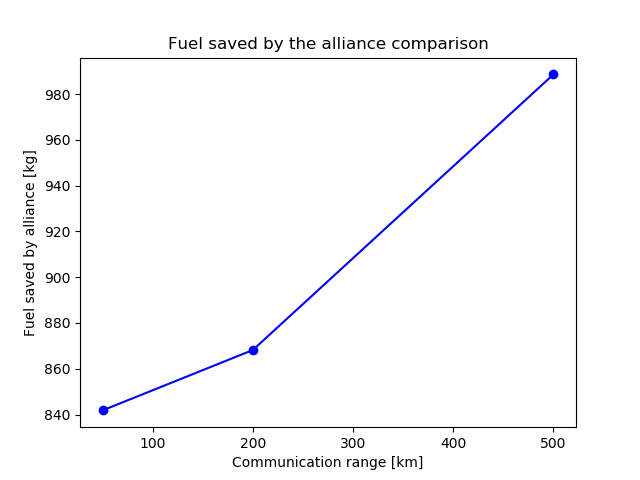
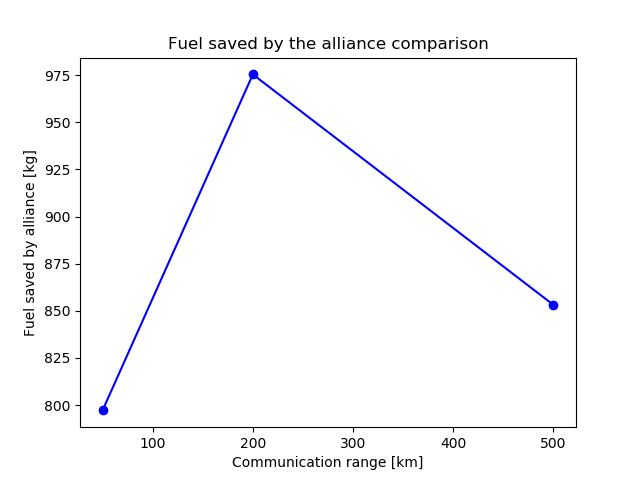
Final version

diff --git a/formation_update/formation_flying/agents/flight.py b/formation_update/formation_flying/agents/flight.py
@@ -53,7 +53,7 @@ def define_circle(p1, p2, p3):
     radius = np.sqrt((cx - p1[0])**2 + (cy - p1[1])**2)
     return ([cx, cy], radius)
 
-#formula circle (x-center[0])**2 + (y-center[1])**2 = r**2
+# Formula circle (x-center[0])**2 + (y-center[1])**2 = r**2
 def intersection(dydx,x1,x2,p3,center,radius,n): #j = -1 for jp and j=1 for lp
     for x in np.arange(x1,x2+n,n):
         y_line = dydx*(x-p3[0])+p3[1]
@@ -478,7 +478,8 @@ class Flight(Agent):
         w_c = min((w_b + w_a - 0.01), (0.87 * (w_a + w_b - 1) * (1 + 0.035 * (w_a + w_b - 2)) + 1))
         AX1 = dist * w_b / w_c
         BX1 = dist * w_a / w_c
-        ##Determine X1andX2 coordinates to determine circle and joining point##
+       
+        # Determine X1 and X2 coordinates to determine circle and joining point##
         if a.pos[0] < b.pos[0]:  # a is left and b is right of map
             angle_cs = atan(abs(b.pos[1] - a.pos[1]) / abs(b.pos[0] - a.pos[0]))
             angle_A = acos((BX1 ** 2 + dist ** 2 - AX1 ** 2) / (2 * BX1 * dist))
@@ -497,41 +498,37 @@ class Flight(Agent):
             else:
                 X1 = [b.pos[0] + cos(angle_B - angle_cs) * BX1, b.pos[1] - sin(angle_B - angle_cs) * BX1]
                 X2 = [b.pos[0] + cos(angle_B + angle_cs) * BX1, b.pos[1] + sin(angle_B + angle_cs) * BX1]
-        # if X1[1] < X2[1]:
-        #     # center_X, radius_X = define_circle(a.pos, b.pos, X1)
-        #     X = X1
-        # else:
-        #     center_X, radius_X = define_circle(a.pos, b.pos, X2)
-        #     X = X2
+      
+        
         ##Determine Y1andY2 coordinates to determine circle and leaving point##
         dist_des = calc_distance(a.destination, b.destination)
         if dist_des <= 0.1:
             LP = a.destination
             return LP
+        
         if a.destination[0] == b.destination[0]:
             LP = [a.destination[0], min(a.destination[1], b.destination[1])]
             return LP
+       
         AY1 = dist_des * w_b / w_c
         BY1 = dist_des * w_a / w_c
         angle_cs_des = atan(abs(b.destination[1] - a.destination[1]) / abs(b.destination[0] - a.destination[0]))
+        
         if a.destination[0] < b.destination[0]:  # a is left and b is right of map
             angle_A_des = acos((BY1 ** 2 + dist_des ** 2 - AY1 ** 2) / (2 * BY1 * dist_des))
             Y1 = [a.destination[0] + cos(angle_A_des + angle_cs_des) * AY1,
                   a.destination[1] - sin(angle_A_des + angle_cs_des) * AY1]
             Y2 = [a.destination[0] + cos(angle_A_des - angle_cs_des) * AY1,
                   a.destination[1] + sin(angle_A_des - angle_cs_des) * AY1]
+        
         else:
             angle_B_des = acos((AY1 ** 2 + dist_des ** 2 - BY1 ** 2) / (2 * AY1 * dist_des))
             Y1 = [b.destination[0] + cos(angle_B_des + angle_cs_des) * BY1,
                   b.destination[1] - sin(angle_B_des + angle_cs_des) * BY1]
             Y2 = [b.destination[0] + cos(angle_B_des - angle_cs_des) * BY1,
                   b.destination[1] + sin(angle_B_des - angle_cs_des) * BY1]
-        # if Y1[1] > Y2[1]:
-        #     # center_Y, radius_Y = define_circle(a.pos, b.pos, Y1)
-        #     Y = Y1
-        # else:
-        #     # center_Y, radius_Y = define_circle(a.pos, b.pos, Y2)
-        #     Y = Y2
+        
+        # Ensure that the joining or leaving point is not out of bounds
         if j == 'j':
             if X1[1] > X2[1]:
                 JP = X1
@@ -567,56 +564,7 @@ class Flight(Agent):
                 else:
                     LP[1] = 10
 #            print("LP =",  LP)
-            return LP
-        # old = [0.5 * (a.pos[0] + b.pos[0]), 0.5 * (a.pos[1] + b.pos[1])]
-        # old2 = [0.5 * (a.destination[0] + b.destination[0]), 0.5 * (a.destination[1] + b.destination[1])]
-        # if j == 'j':
-        #     dist = calc_distance(a.pos,b.pos)
-        #     AJ = (0.5 * dist) / cos(60 * pi / 180)
-        #     if a.pos[0] - b.pos[0] < 0.0:      #a is left and b is right of map
-        #         JP = [a.pos[0] + (cos(60 * pi/180)*AJ), a.pos[1] + (sin(60 * pi/180))*AJ]
-        #     elif a.pos[0] - b.pos[0] == 0.0:
-        #         JP = [a.pos[0], max(a.pos[1],b.pos[1])]
-        #     else:
-        #         JP = [a.pos[0] - (cos(60 * pi / 180)*AJ), a.pos[1] + (sin(60 * pi / 180)*AJ)]
-        #
-        #     if JP[1] > 750 or JP[0] > 750:
-        #         if JP[0] > 750:
-        #             JP[0] = 700
-        #         else:
-        #             JP[1] = 700
-        #
-        #     if JP[1] < 0 or JP[0] < 0:
-        #         if JP[0] < 0:
-        #             JP[0] = 10
-        #         else:
-        #             JP[1] = 10
-        #
-        #     return JP
-        # else:
-        #     dist_dest = calc_distance(a.destination,b.destination)
-        #     AL = (0.5 * dist_dest) / sin(30 * pi / 180)
-        #     if a.destination[0] - b.destination[0] < 0.0:      #a is left and b is right of map
-        #         LP = [a.destination[0] + (cos(30 * pi/180)*AL), a.destination[1] - (sin(30 * pi/180))*AL]
-        #     elif a.destination[0] - b.destination[0] == 0.0:
-        #         LP = [a.destination[0], max(a.destination[1],b.destination[1])]
-        #     else:
-        #         LP = [a.destination[0] - (cos(30 * pi / 180)*AL), a.destination[1] - (sin(30 * pi/180)*AL)]
-        #
-        #     if LP[1] > 750 or LP[0] > 750:
-        #         if LP[0] > 750:
-        #             LP[0] = 700
-        #         else:
-        #             LP[1] = 700
-        #
-        #     if LP[1] < 0 or LP[0] < 0:
-        #         if LP[0] < 0:
-        #             LP[0] = 10
-        #         else:
-        #             LP[1] = 10
-        #     return LP
-        
-        
+            return LP                
 
     def distance_to_destination(self, destination):
         return ((destination[0] - self.pos[0]) ** 2 + (destination[1] - self.pos[1]) ** 2) ** 0.5

diff --git a/formation_update/formation_flying/negotiations/CNP.py b/formation_update/formation_flying/negotiations/CNP.py
@@ -23,9 +23,6 @@ def do_CNP(flight):
             if flight.strategy == 0:
                 bid_value, bid_expiration_date = simple_strategy(flight, formation_target, potential_fuel_saving)
             
-            ### HERE WE CAN IMPLEMENT MORE BID STRATEGIES
-#            if flight.strategy ==1:
-            
             # Make bid with values from a bid strategy
             if bid_value > 0:
                 flight.make_bid(formation_target, bid_value, bid_expiration_date)
@@ -48,7 +45,6 @@ def do_CNP(flight):
                     flight.received_bids.remove(bid)
             
         if highest_bid_lst != []:
-#            print(highest_bid_lst)
             
             if len(highest_bid_lst) > 1:     
                 # Choose 2 bids that pass the reservation value and minimize delay
@@ -65,7 +61,7 @@ def do_CNP(flight):
                         continue
             
                 # From bids that minimize delay choose the one with highest bid value
-                if optimal_bid_1[0]['value'] > optimal_bid_2[0]['value']: #and optimal_bid_1[0]['value'] > optimal_bid_3[0]['value']:
+                if optimal_bid_1[0]['value'] > optimal_bid_2[0]['value']:
                     best_bid = optimal_bid_1
                 
                 else:
@@ -102,10 +98,6 @@ def do_CNP(flight):
                         bid['bidding_agent'].manager = 1
                         bid['bidding_agent'].accepting_bids = 1
                         bid['bidding_agent'].made_bids = []
-#                        new_manager = True
-                        
-                ### BUILD FUNCTION IF NO SUITABLE NEW MANAGER IS FOUND
-#                if not new_manager:
                 
                 # Make current manager auctioneer
                 flight.manager = 0
@@ -114,34 +106,4 @@ def do_CNP(flight):
                 
             elif flight.formation_state == 0:
                 flight.manager_expiration += 1
-
-#=============================================================================       
-# BID EXPIRATION CHECKER (NOT WORKING)
-#=============================================================================
-#            # Check the expiration date
-#            if bid['exp_date'] == 0:
-#                # Remove bid from manager received bid list
-#                flight.received_bids.remove(bid)
-#                
-#                # Same for made bid list of auctioneer
-#                for made_bid in bid['bidding_agent'].made_bids:
-#                    if made_bid['bid_target'] == flight:
-#                        bid['bidding_agent'].made_bids.remove(made_bid)
-#            else:
-#                # Update expiration date in manager received bids list
-#                if bid in flight.received_bids:    
-#                    flight.received_bids[flight.received_bids.index(bid)]['exp_date'] -= 1
-#                
-#                # Do the same for the made bids list of auctioneer
-#                for i in range(len(bid['bidding_agent'].made_bids)):
-#                    if bid['bidding_agent'].made_bids[i]['bid_target'] == flight:
-#                        bid['bidding_agent'].made_bids[i]['exp_date'] -= 1
-    
-                
-
-        
-    
-    
-    
-        
                 

diff --git a/formation_update/batchrunner.py b/formation_update/batchrunner.py
@@ -13,7 +13,7 @@ import numpy as np
 # Choose what has to be compared
 greedy_comp = False
 vision_comp = False
-auction_comp = True
+auction_comp = False
 
 airport_pos_comp = False
 
@@ -24,7 +24,7 @@ third = False
 plot_all = False
 
 # Number of iterations
-iterations = 20
+iterations = 1
 
 batch_run = BatchRunner(FormationFlying,
                             fixed_parameters=model_params,
@@ -105,7 +105,7 @@ if greedy_comp:
 if vision_comp:
     # SPLIT AND AVERAGE DATA
     # Fuel saved per km
-    spec_fuel_save_data = (run_data['Real saved fuel'])
+    spec_fuel_save_data = (run_data['Real saved fuel'] / run_data['flight time'])
     split_spec_fuel_save_data = np.array_split(spec_fuel_save_data, 3)
     split_spec_fuel_save_data[0] = sum(split_spec_fuel_save_data[0]) / iterations
     split_spec_fuel_save_data[1] = sum(split_spec_fuel_save_data[1]) / iterations

diff --git a/formation_update/formation_flying/negotiations/japanese.py b/formation_update/formation_flying/negotiations/japanese.py
@@ -6,6 +6,7 @@
 from formation_flying.negotiations.bid_strategies.true_value_strategy import true_value_strategy
 
 def do_Japanese(flight):
+    
     ### AUCTIONEERS ###
     if flight.accepting_bids == 0 and flight.formation_state == 0:
         # If the agent is not yet in a formation, auctioneers find managers to make bid to
@@ -20,6 +21,7 @@ def do_Japanese(flight):
             # Make sure that agent only enters an auction once
             already_entered = False                
             
+            # If this agent is the first agent to join
             if formation_target.agents_in_auction == [] and formation_target.current_price < max_bid_value:
                 formation_target.agents_in_auction.append({'agent': flight, 'state': 'in auction'})
                 already_entered = True

diff --git a/formation_update/formation_flying/parameters.py b/formation_update/formation_flying/parameters.py
@@ -46,7 +46,7 @@ model_params = {
     "height": 750, # [km]
     "speed": 0.3, #[km / second]
     "fuel_reduction": 0.75, 
-#    "negotiation_method": 1,
+    "negotiation_method": 1,
     "departure_window": 3, 
     "origin_airport_x": [0.01, 0.3],  #[0, 0.1], [0, 0.2], [0, 0.3]
     "origin_airport_y": [0.01, 0.3],  # [0, 0.1], [0, 0.2], [0, 0.3]
@@ -56,7 +56,7 @@ model_params = {
 
 # To run model with a variable parameter:
 #variable_params = {"communication_range": [50, 200, 500]}
-variable_params = {"negotiation_method": [2,3,4]}
+variable_params = {"negotiation_method": [0,1,2,3,4]}
 
 
 model_reporter_parameters={"Total Fuel Used": compute_total_fuel_used, 
